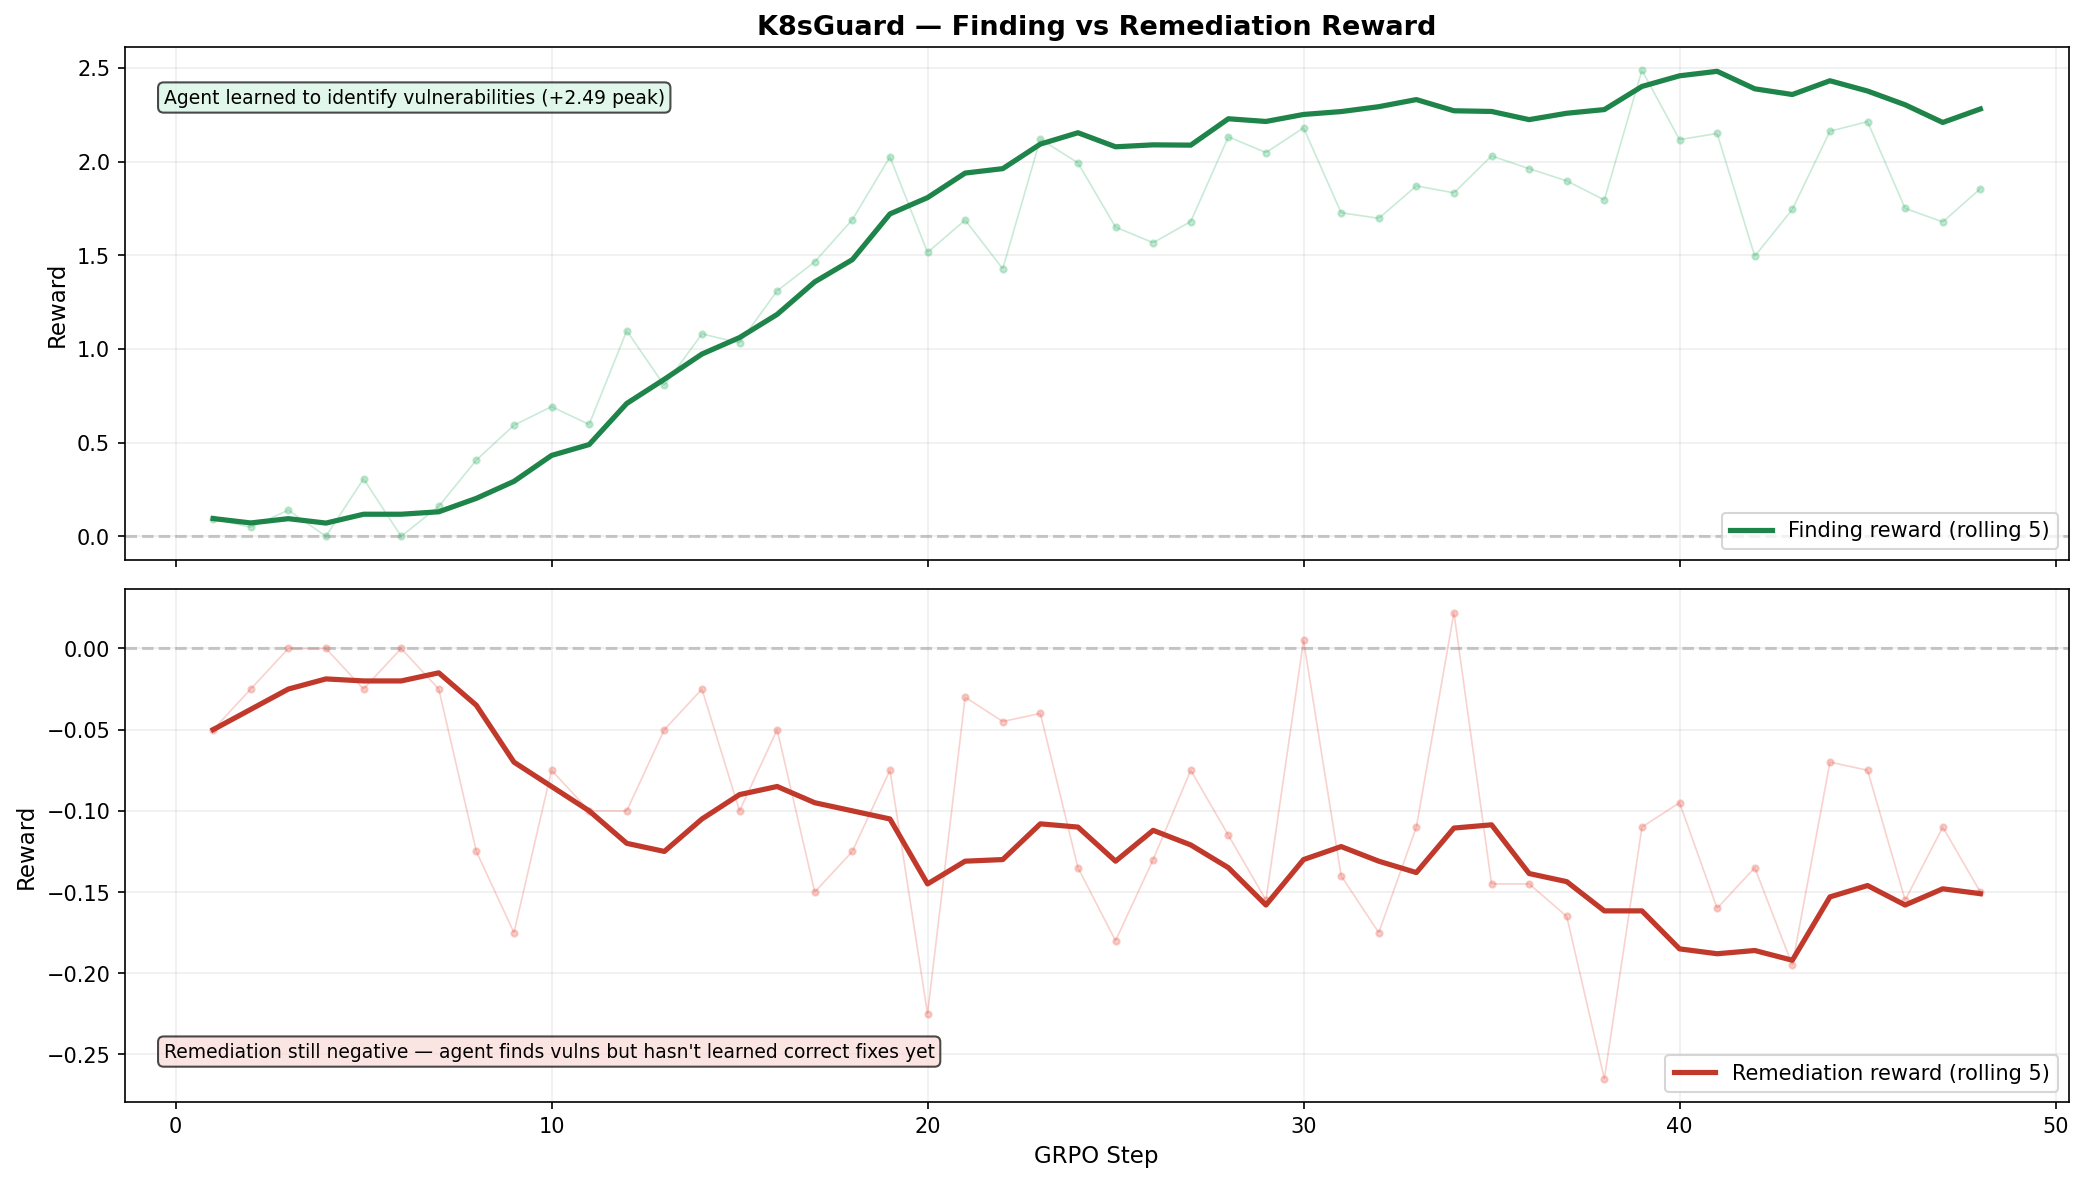
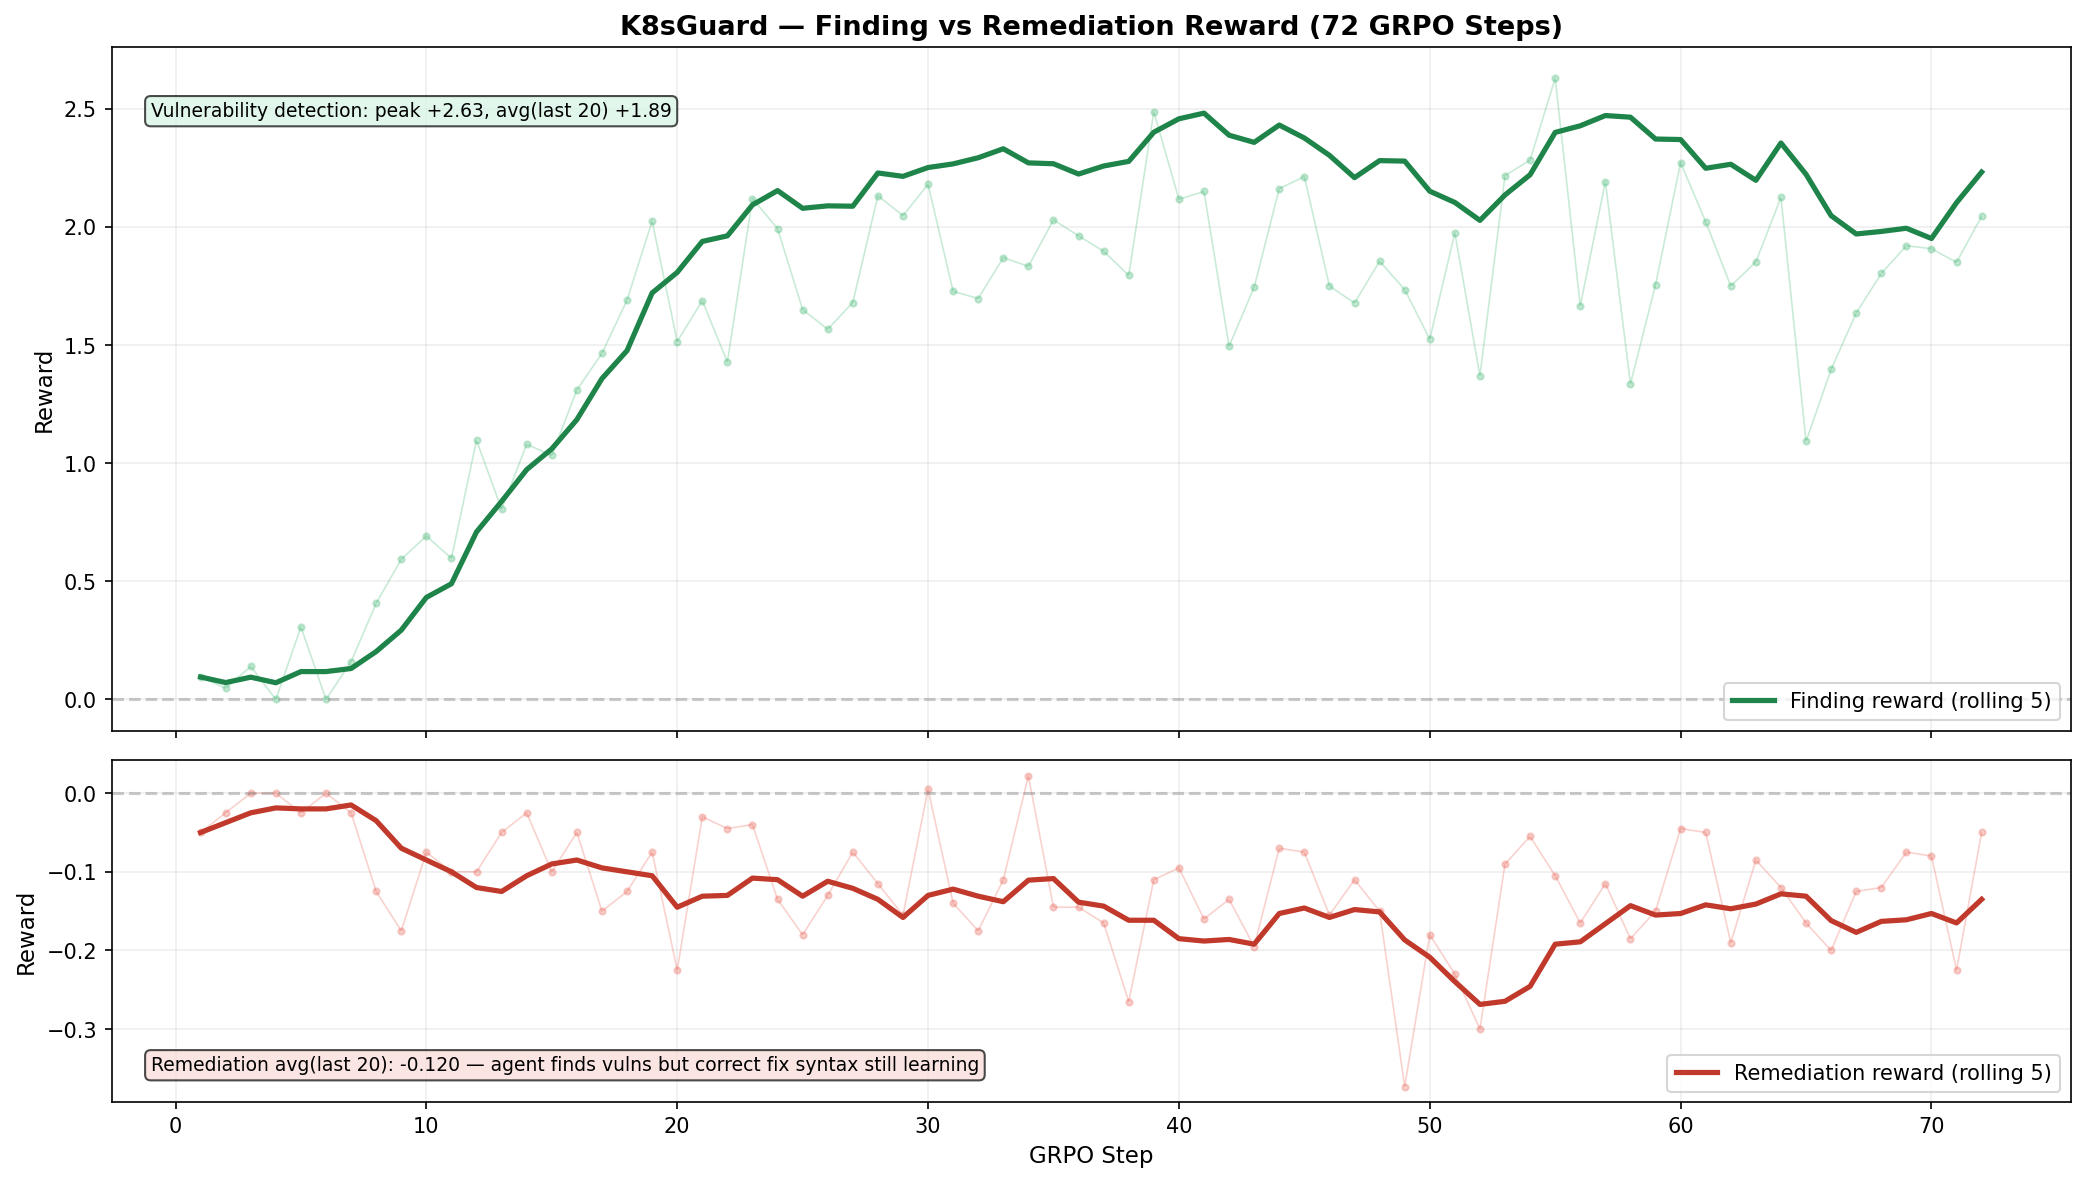
Update charts with 72-step training data from live 8xH100 run

diff --git a/README.md b/README.md
@@ -70,13 +70,13 @@ The agent learns to scan systematically across five security domains, identify r
   <img src="assets/reward_curve.png" alt="GRPO Training Reward Curve" width="700">
 </p>
 
-Real reward curve from an active training run: Qwen3-8B + LoRA on 5-GPU DDP with Nemotron-120B FP8 judge. The agent goes from -1.0 (random scanning, repeated commands) to +3.5 average in ~48 GRPO steps. Best single episode: +4.62.
+Real reward curve from a live training run on 8xH100: Qwen3-8B + LoRA on 5-GPU DDP with Nemotron-120B FP8 judge. The agent goes from -1.0 (random scanning, repeated commands) to +3.0-4.0 consistently. Best episode: +4.97. 100% positive rate over the last 20 steps.
 
 <p align="center">
   <img src="assets/finding_vs_remediation.png" alt="Finding vs Remediation Reward" width="700">
 </p>
 
-The agent quickly learns to **find** vulnerabilities (green, rising to +2.5) but **remediation** remains negative — it identifies issues correctly but hasn't yet learned the right kubectl fix commands. This is expected early in training; remediation requires more episodes to learn.
+The agent masters **vulnerability detection** (green, peaking at +2.63, averaging +1.89 over last 20 steps) while **remediation** remains a harder skill to learn (red, averaging -0.12). The agent correctly identifies misconfigurations but still struggles with the exact kubectl fix syntax — a common pattern in RL where diagnosis is learned before treatment.
 
 ## Training Quickstart
 
